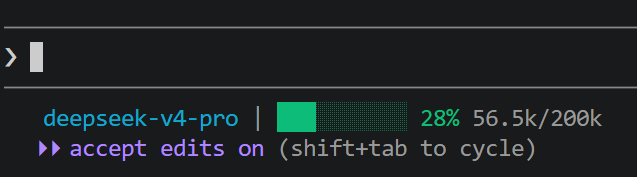
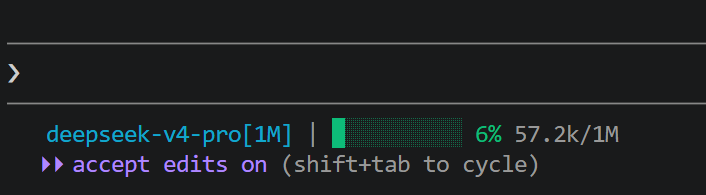
更新展示

diff --git a/README.md b/README.md
@@ -3,6 +3,7 @@
 > Claude Code 状态栏插件，实时显示 token 使用量、模型信息和上下文窗口使用百分比
 
 ![展示效果](pro.png)
+![展示效果](flash.png)
 
 ## 安装
 
@@ -57,9 +58,9 @@ Claude Opus 4.6 | ██████░░░░ 42% 84k/200k
 
 ## Slash 命令
 
-| 命令 | 说明 |
-|------|------|
-| `/claude-hud:setup` | 自动配置状态栏 |
+| 命令                    | 说明                       |
+| ----------------------- | -------------------------- |
+| `/claude-hud:setup`     | 自动配置状态栏             |
 | `/claude-hud:configure` | 自定义显示选项、颜色、格式 |
 
 ## 配置选项
